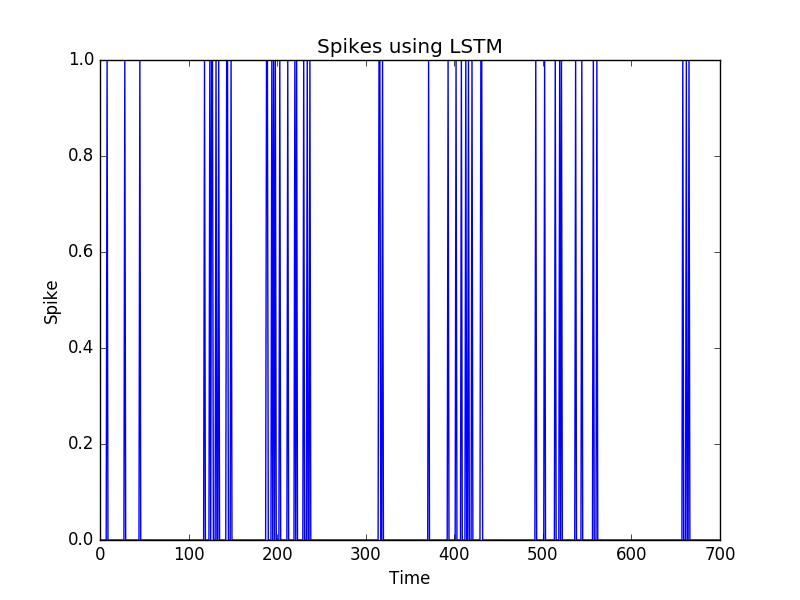
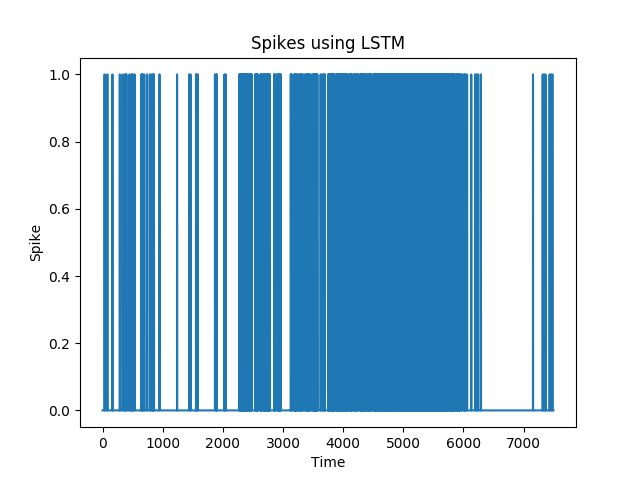
added testing

diff --git a/LSTM/test.py b/LSTM/test.py
@@ -1,0 +1,66 @@
+import warnings
+import argparse
+import numpy as np
+import keras
+from keras.models import load_model
+import sys
+import time
+import scipy.io
+import datetime
+
+warnings.filterwarnings("ignore")
+
+parser = argparse.ArgumentParser(description='Test the Neural Net')
+parser.add_argument('-weights', action="store", dest="weights",
+	help='Generate Bit_string', default="None")
+parser.add_argument('-d', action="store", dest="test_data",default="None",
+	help='Dataset to test the network(in .mat)')
+
+
+weights = parser.parse_args().weights
+test_data = parser.parse_args().test_data
+
+if weights != "None":
+	model = load_model(weights)
+else:
+	print("weights are required")
+	exit()
+
+stride=1
+length=10
+
+def create_test_dataset(raw_data):
+	data_array=[]
+	label_array=[]
+	one_hot_dict={0:np.array([1.0,0.0]),1:np.array([0.0,1.0])}
+	for i in range(0,raw_data.shape[0]-length,stride):
+		data=[one_hot_dict[num] for num in raw_data[i:i+length]]
+		data_array.append(np.array(data))
+		label_array.append(one_hot_dict[raw_data[i+length]])
+	# print(np.array(data_array))	
+	return (np.array(data_array),np.array(label_array))
+
+mat=scipy.io.loadmat(test_data)
+bitstring=mat['spike_bitstring']
+bitstring=bitstring.reshape([-1])
+
+features,labels=create_test_dataset(bitstring)
+
+predicted_labels=model.predict(features)
+predicted_labels=np.argmax(predicted_labels,axis=1)
+labels=np.argmax(labels,axis=1)
+# print(predicted_labels)
+# print(labels)
+
+correct=0
+for i in range(labels.shape[0]):
+	if(labels[i]==predicted_labels[i]):
+		correct+=1
+print("Accuracy:{}".format(correct/(labels.shape[0]+0.0)))		
+
+
+
+
+
+
+

diff --git a/LSTM/plot_lstm_spikes.py b/LSTM/plot_lstm_spikes.py
@@ -11,12 +11,13 @@ file = open(file_name, "r")
 
 data = file.read()
 data_list = []
-for char in data[4205:4905]:
+for char in data:
 	data_list.append(int(char))
 
 plt.plot(range(len(data_list)), data_list)
+print(sum(data_list))
 plt.xlabel("Time")
 plt.ylabel("Spike")
-plt.title("Spikes using LSTM")
-plt.savefig("spikes_using_lstm.png")
+plt.title("Spike Train")
+plt.savefig("realspikes.png")
 plt.show()
